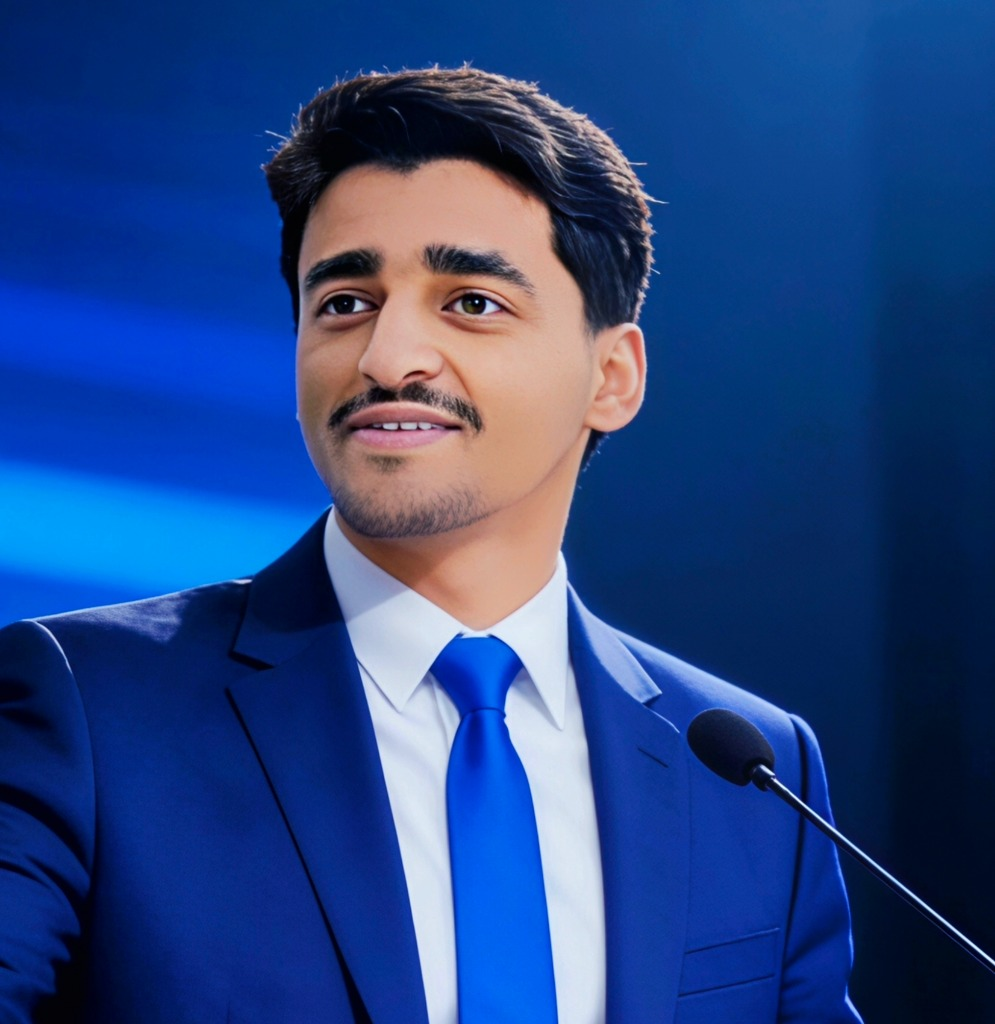
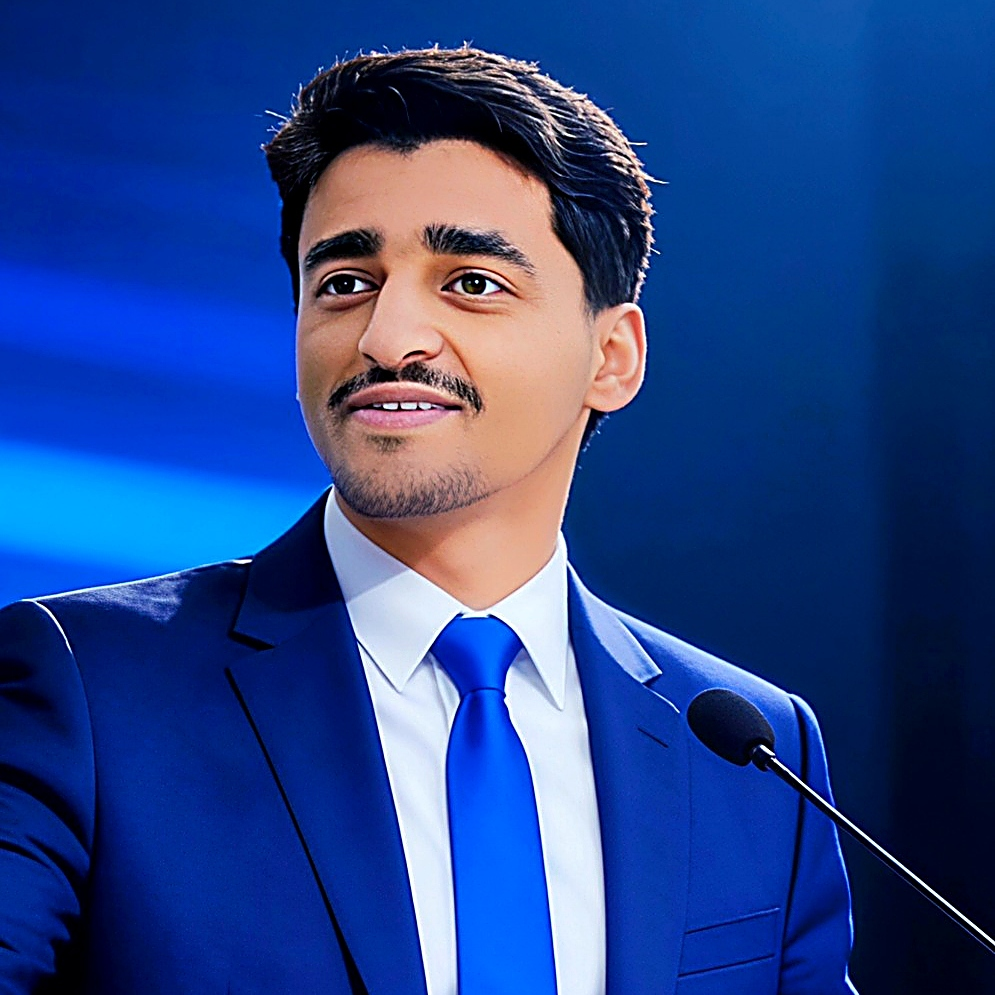
update

diff --git a/index.html b/index.html
@@ -267,15 +267,15 @@
 
         <div class="certifications-grid">
           <div class="cert-card glass-card">
-            <div class="cert-card-preview">
-              <img src="assets/hp-ai-certificate.svg" alt="HP LIFE AI for Beginners Certificate - Umair Siddique" class="cert-preview-img" width="1200" height="848" loading="lazy">
+            <a href="assets/hp-ai-certificate.pdf" target="_blank" rel="noopener noreferrer" class="cert-card-preview" title="Click to view official Full HD Certificate">
+              <img src="assets/hp-ai-certificate.svg" alt="HP LIFE AI for Beginners Certificate - Umair Siddique" class="cert-preview-img" width="1200" height="850" loading="lazy">
               <div class="cert-preview-overlay">
-                <a href="assets/hp-ai-certificate.pdf" target="_blank" rel="noopener noreferrer" class="btn btn-primary btn-sm cert-overlay-btn" aria-label="View Full PDF Certificate">
+                <span class="btn btn-primary btn-sm cert-overlay-btn">
                   <i class="fa-solid fa-arrow-up-right-from-square"></i>
-                  <span>Inspect PDF</span>
-                </a>
+                  <span>Tap for Full HD Certificate</span>
+                </span>
               </div>
-            </div>
+            </a>
 
             <div class="cert-card-content">
               <div class="cert-badge-row">

diff --git a/styles.css b/styles.css
@@ -433,6 +433,9 @@ img {
   width: 100%;
   height: 100%;
   object-fit: cover;
+  object-position: center center;
+  image-rendering: -webkit-optimize-contrast;
+  image-rendering: crisp-edges;
 }
 
 .nav-menu {
@@ -841,7 +844,9 @@ img {
   width: 100%;
   height: 100%;
   object-fit: cover;
-  object-position: top center;
+  object-position: center center;
+  image-rendering: -webkit-optimize-contrast;
+  image-rendering: crisp-edges;
   transition: transform 0.4s ease;
 }
 
